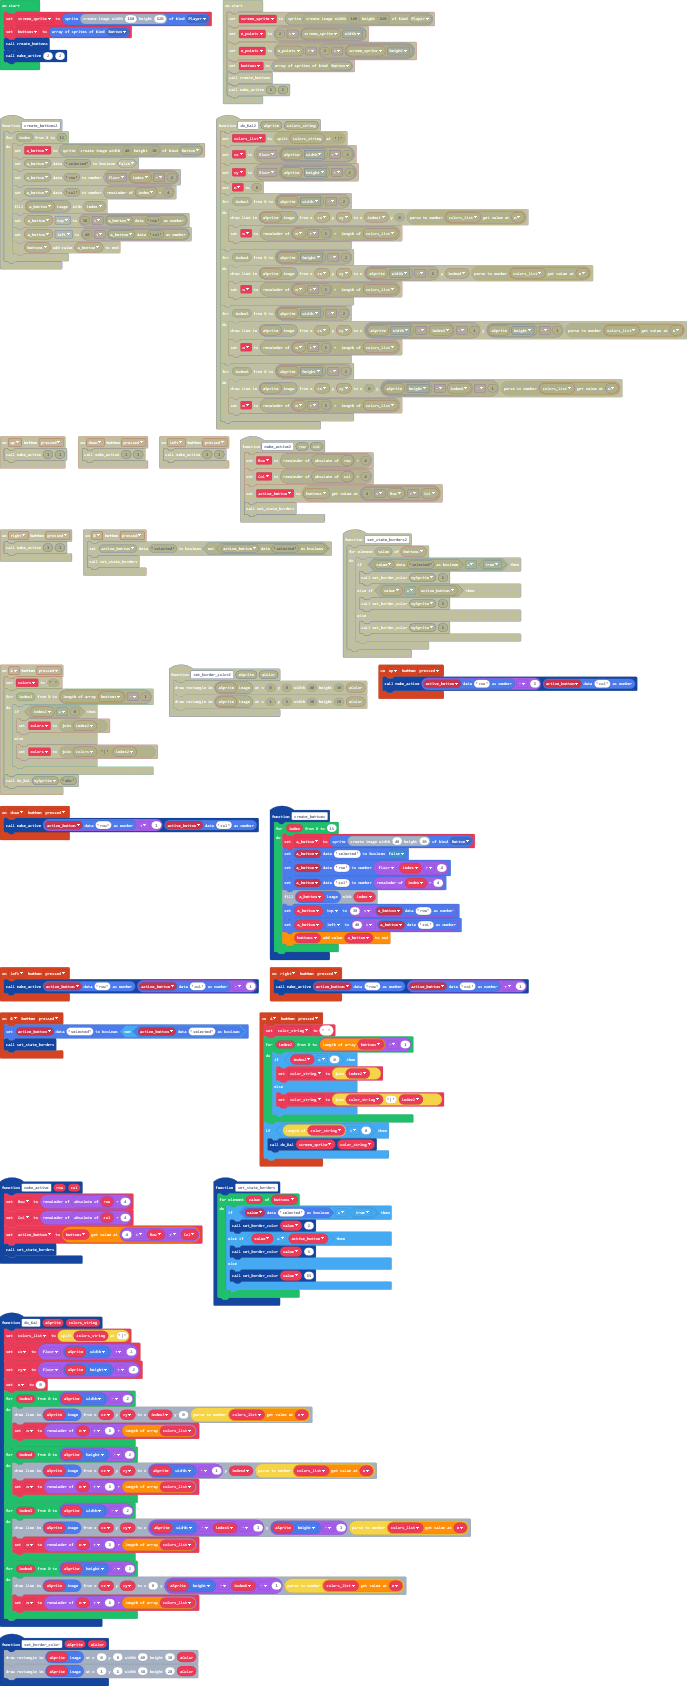
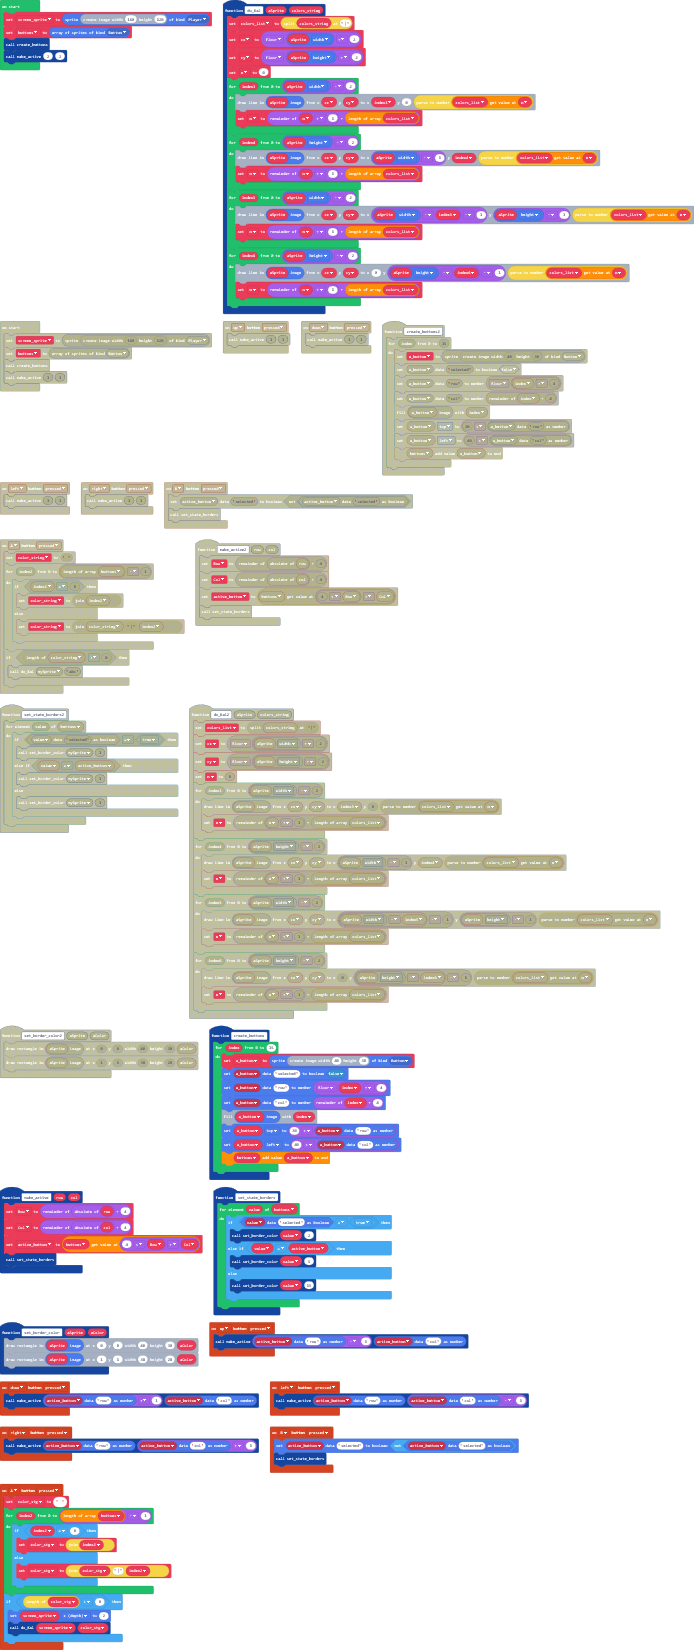
Update main.blocks, main.ts

diff --git a/main.ts b/main.ts
@@ -63,16 +63,17 @@ function do_Kal (aSprite: Sprite, colors_string: string) {
     }
 }
 controller.A.onEvent(ControllerButtonEvent.Pressed, function () {
-    color_string = ""
+    color_stg = ""
     for (let index2 = 0; index2 <= buttons.length - 1; index2++) {
         if (index2 == 0) {
-            color_string = "" + index2
+            color_stg = "" + index2
         } else {
-            color_string = "" + color_string + "|" + index2
+            color_stg = "" + color_stg + "|" + index2
         }
     }
-    if (color_string.length > 0) {
-        do_Kal(screen_sprite, color_string)
+    if (color_stg.length > 0) {
+        screen_sprite.z = 2
+        do_Kal(screen_sprite, color_stg)
     }
 })
 controller.right.onEvent(ControllerButtonEvent.Pressed, function () {
@@ -85,7 +86,7 @@ function set_border_color (aSprite: Sprite, aColor: number) {
 controller.up.onEvent(ControllerButtonEvent.Pressed, function () {
     make_active(sprites.readDataNumber(active_button, "row") - 1, sprites.readDataNumber(active_button, "col"))
 })
-let color_string: string = []
+let color_stg: string = []
 let n = 0
 let cy = 0
 let cx = 0
